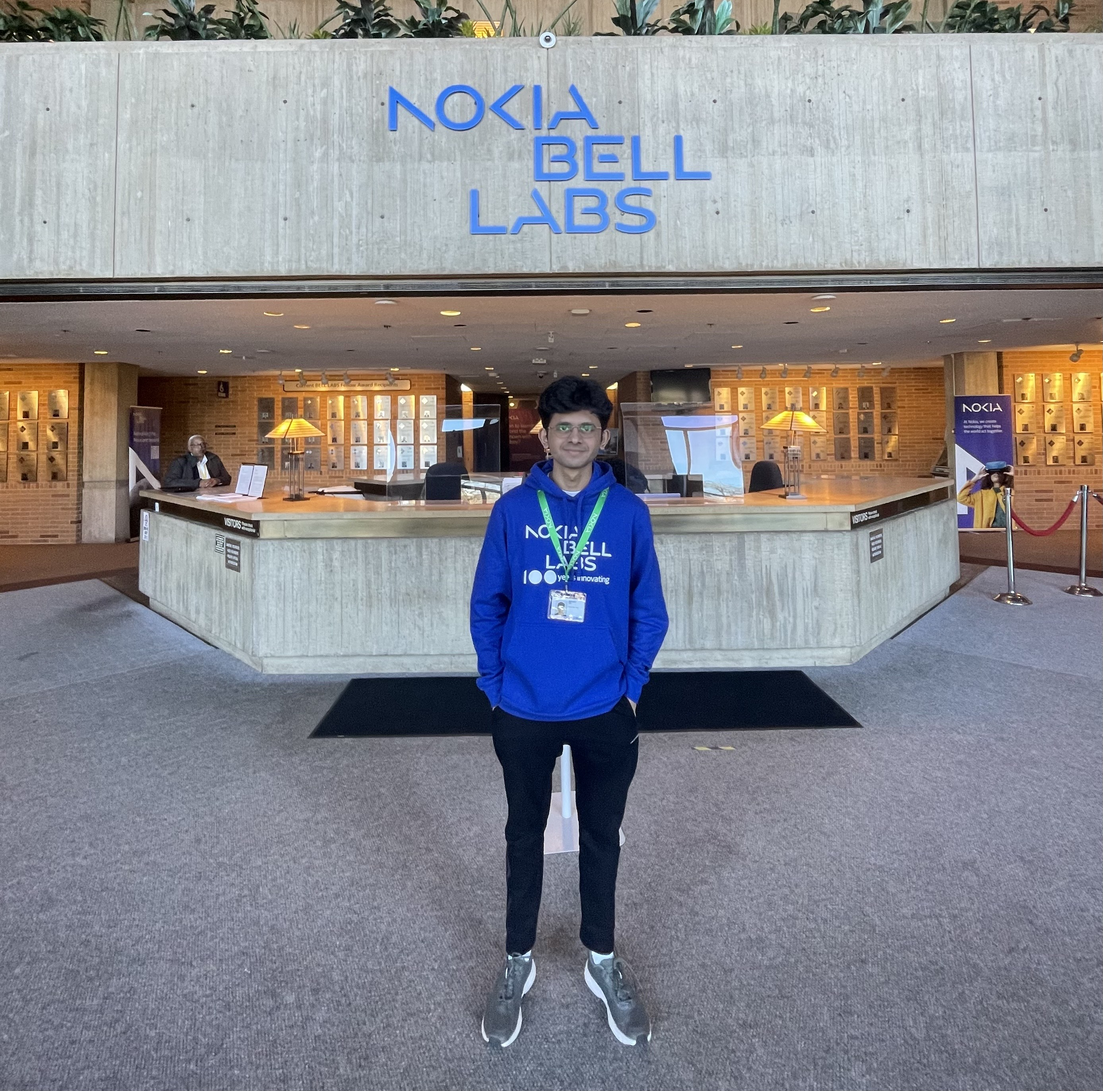
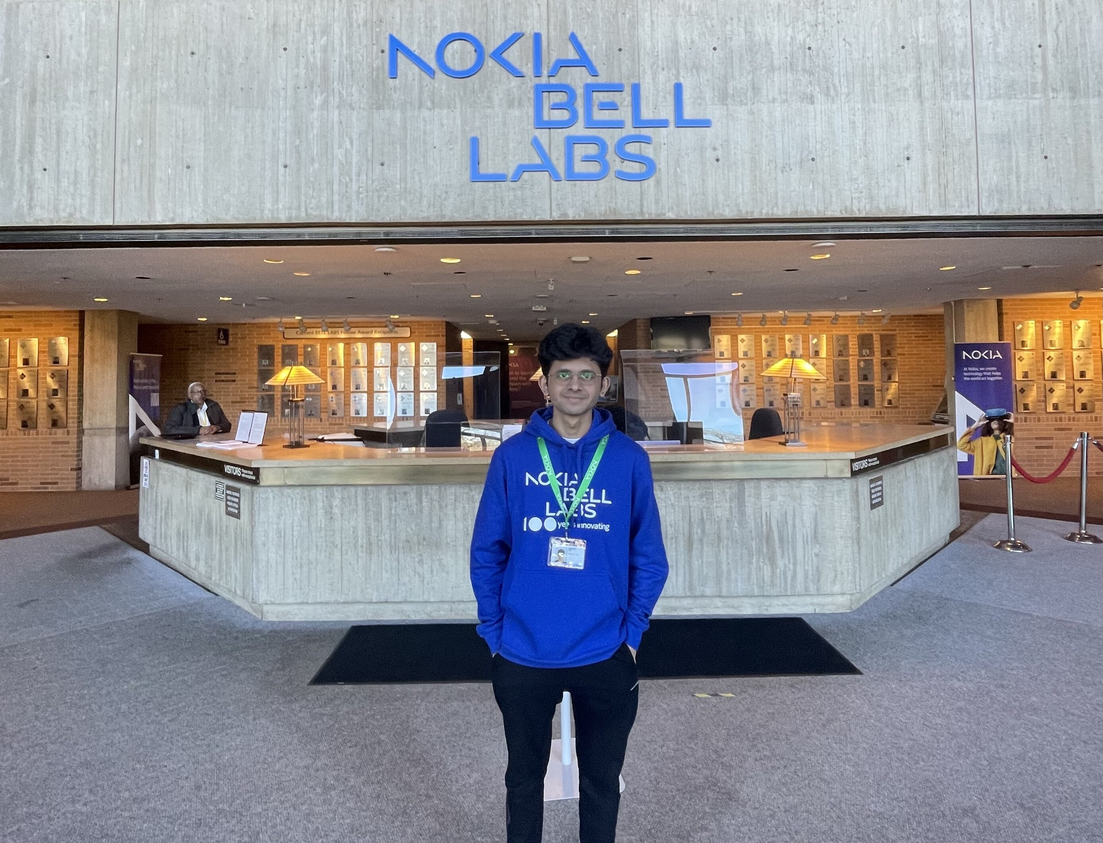
eysip all photo, nokia resized

diff --git a/_gallery/gallery.md b/_gallery/gallery.md
@@ -43,14 +43,15 @@ permalink: /gallery/
 <div style="display: flex;">
   <img src="/images/gallery/eysip1.jpg" width="300" style="margin-right: 10px;" />
   <img src="/images/gallery/eysip3.jpg" width="300" style="margin-right: 10px;" />
+  <img src="/images/gallery/eysip4.jpg" width="300" style="margin-right: 10px;" />
 </div>
 
 ## Project MANAS, Manipal Institute of Technology, India (2021)
 
 <div style="display: flex;">
-  <img src="/images/gallery/manas.JPG" width="300" style="margin-right: 10px;" />
+  <img src="/images/gallery/manas3.JPG" width="300" style="margin-right: 10px;" />
   <img src="/images/gallery/manas2.jpg" width="300" style="margin-right: 10px;" />
-  <img src="/images/gallery/manas3.JPG" width="300" />
+  <img src="/images/gallery/manas.JPG" width="300" />
 </div>
 
 ## Millennium National School, India (2016)
